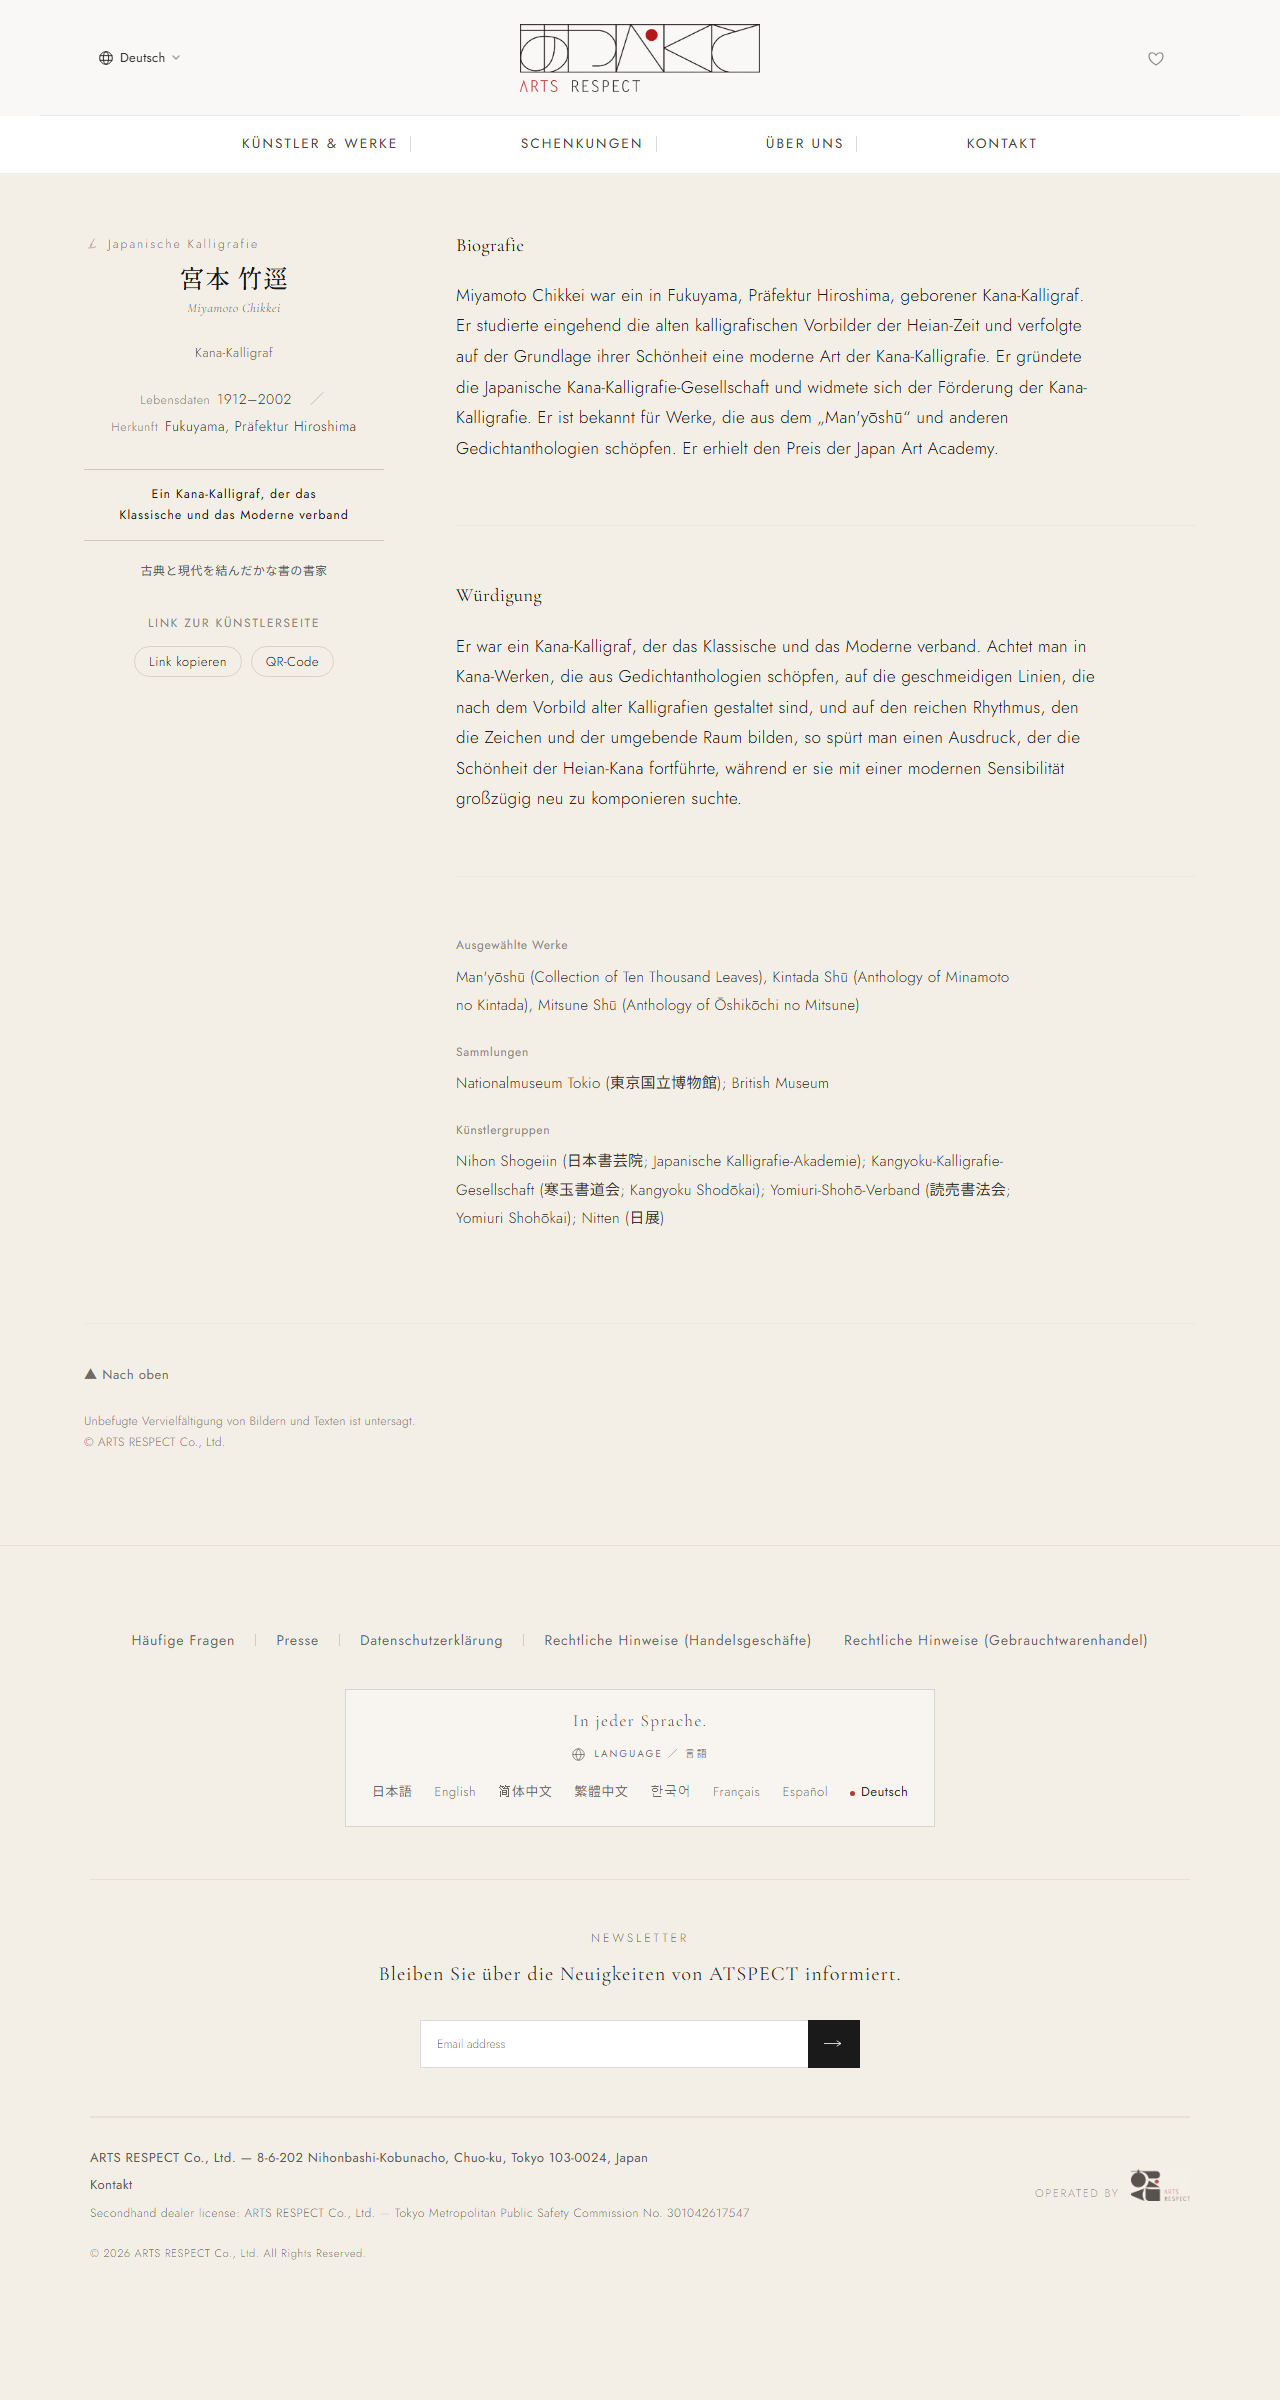
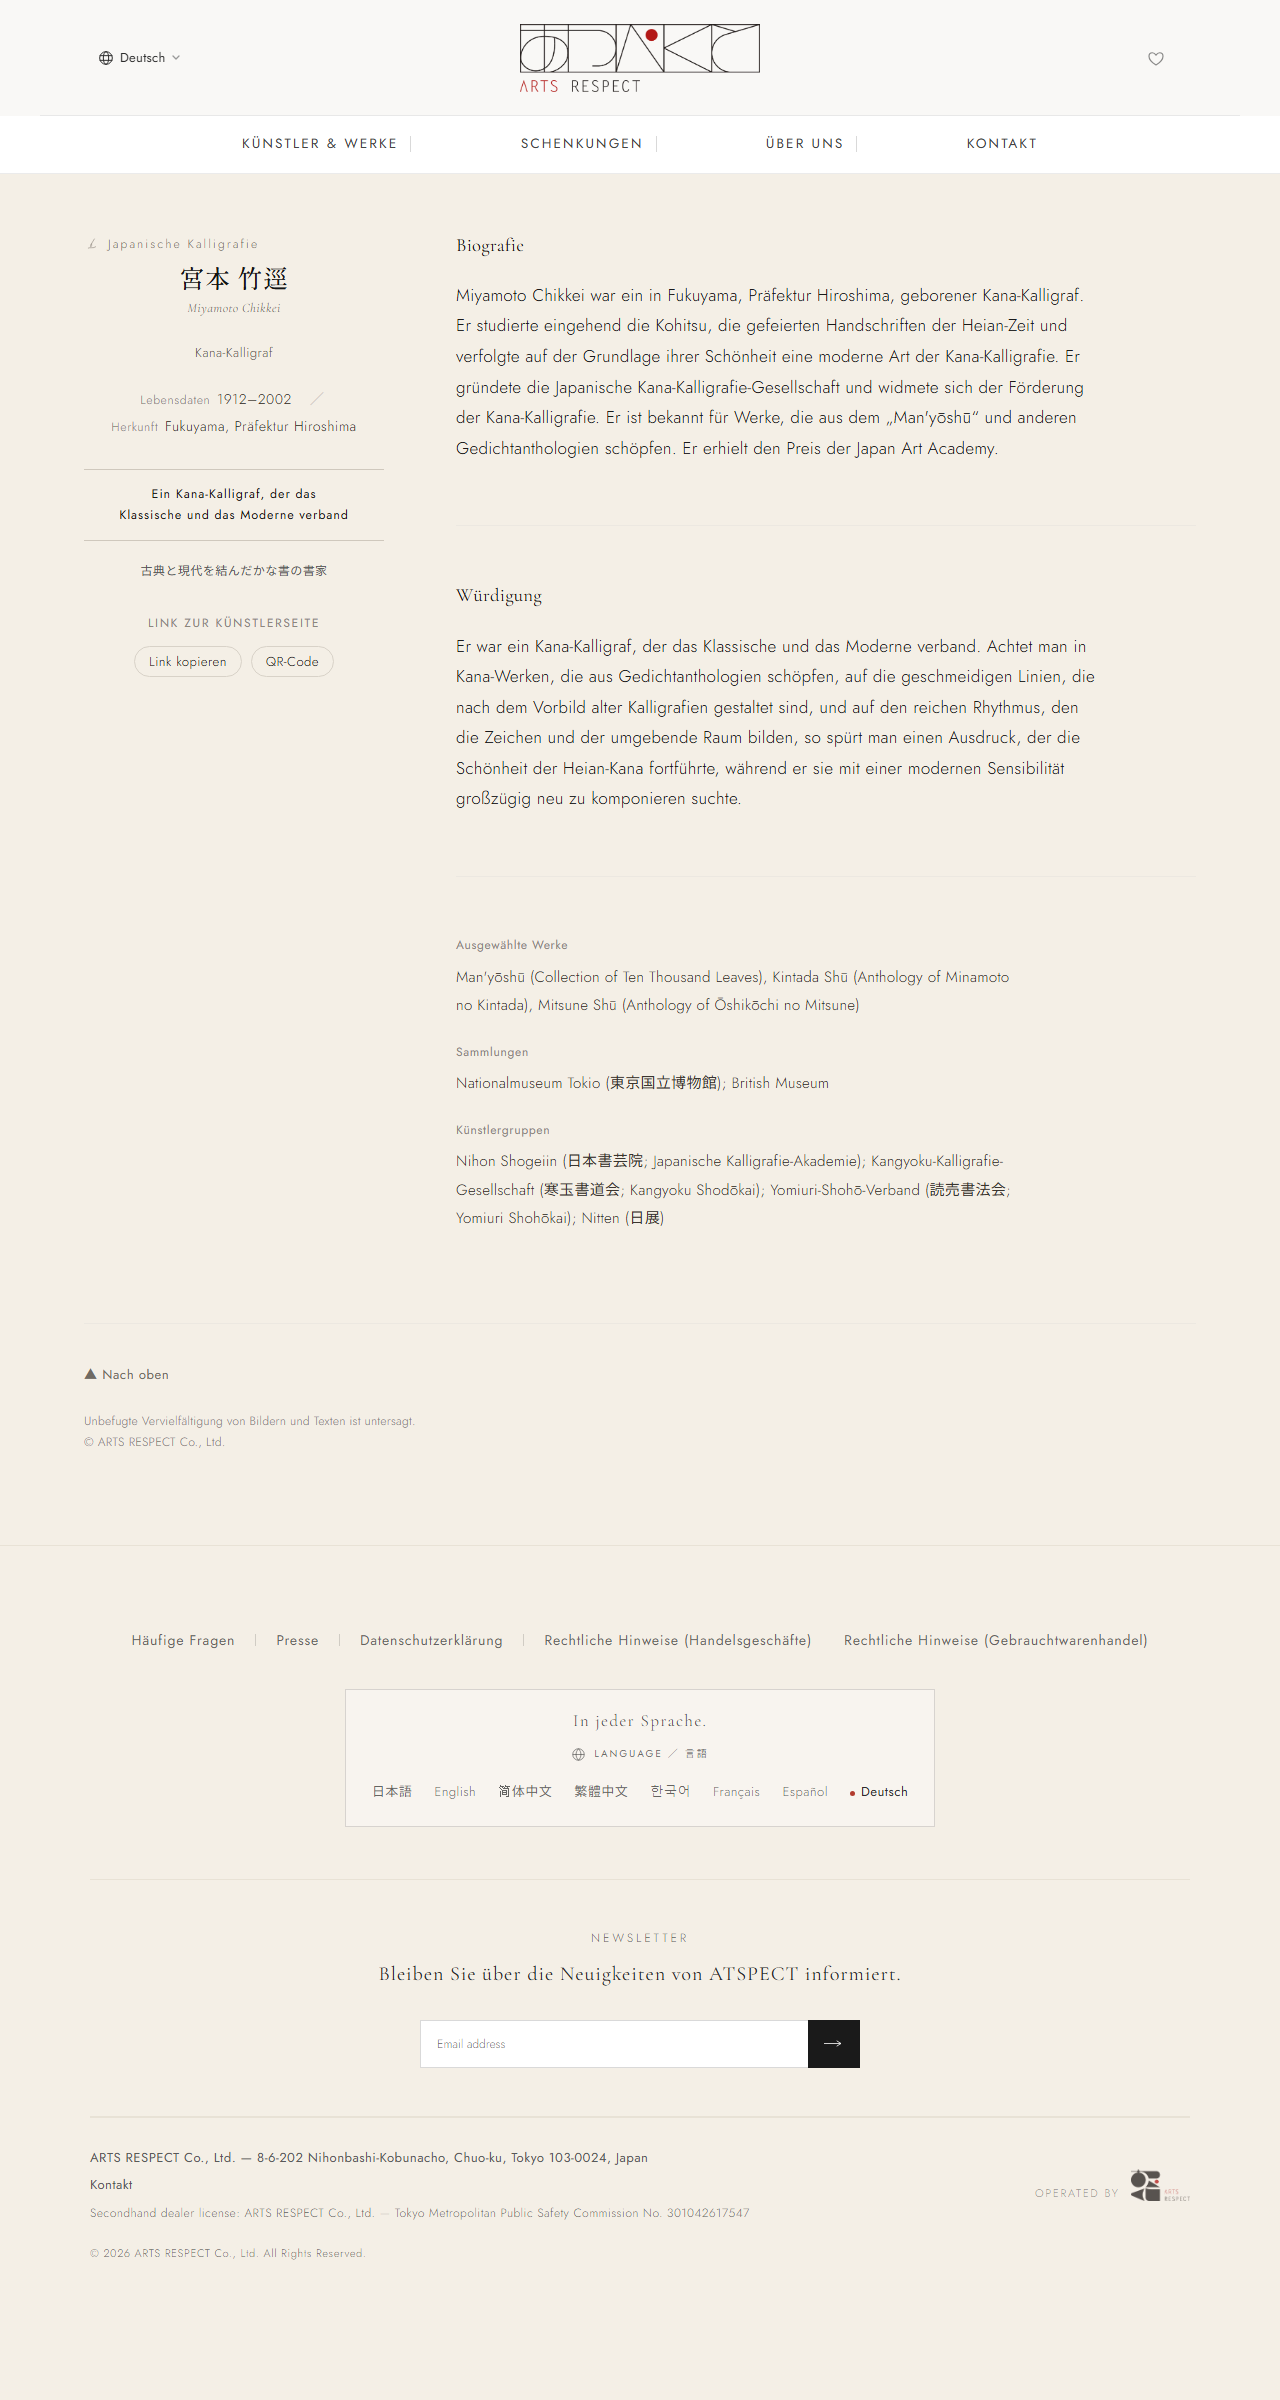
翻訳品質T 第26束 追補：前後件数表で残っていた古筆7欄・古名刀3欄を全数是正し0件に／横断型5件を辞書C26-C30へ登録
- ★古筆は横断型だった。既に正しい4名のhouse formに合わせて16欄を全数是正（少数側の一部だけ直して割れを作っていた）
- 突き合わせ②は同一文字列しか見ず、同じ型の別の言い回しを拾えていなかった
- 全数を直し切った5型を decisions D3 に登録
- スクショ＝宮本竹逕さまを撮り直し、高木聖鶴さまを追加（計24枚）

Changed region(s): [[0.3438, 0.125, 0.8438, 0.1875]]

diff --git a/reports/honyaku.md b/reports/honyaku.md
@@ -260,3 +260,97 @@ metaobject の実キーを数え直したところ、`masterworks` `publications
 ### バックアップ
 
 `C:\Vault\ARTS-RESPECT\_backups\_auto\artist-i18n\20260813-113243\`（41件12名）／`…\20260813-113623\`（1件1名）
+
+---
+
+## 第26束 追補（2026-08-13）完了条件の照合と、前後件数表で見つかった残り
+
+**先の報告は push 済みでしたが、完了条件を機械で照合したところ2件の欠けが見つかりました。塞いだうえで再度 push します。**
+
+### ★欠けていた2件
+
+1. **横断型5件を報告に書いただけで、裁定辞書に登録していなかった。** → `human` **C26〜C30** として登録（下表の件数つき）。登録しないと、次の束で同じ指摘が出るたびに同じ判断をやり直すことになる。
+2. **前後件数表を機械で出していなかった。** → 出したところ、**直したはずの2つの型が0件になっていなかった。**
+
+### ★前後件数表が見つけた残り（＝報告時点では「直し切った」と書けない状態だった）
+
+| 型 | 表を出した時点 | 原因 |
+|---|---|---|
+| 「古筆」を classical kana | **7欄/2名 残** | 突き合わせ②は**同一文字列**しか見ておらず、**同じ型の別の言い回し**（英 classical kana writing／西 kana clásica／仏 kana classique）を拾えていなかった |
+| 「古名刀」に master/maestros/maîtres | **3欄/1名 残** | 宮入行平さまだけを見て、**同じ日本語を持つ高橋貞次さま**を見ていなかった |
+
+**★さらに、古筆については当方の判断そのものが誤っていました。**
+古筆を日本語に持つのは全6名。**うち4名（杉岡華邨さま・日比野五鳳さま・安東聖空さま・尾上柴舟さま）は既に「kohitsu／celebrated brushwork／gefeierte Handschriften」で正しく訳されており**、
+宮本竹逕さま・高木聖鶴さまの2名だけが「classical kana（古典的なかな＝文字そのもの）」でした。
+**つまり古筆は横断型で、当方はその少数側の一部の欄だけを直し、同じ作家の中で言語ごとに割れた状態を一度作っていました。**
+既に正しい4名の house form に合わせて**16欄を全数是正**し、割れを解消しました。
+
+### 前後件数表（機械出力・「前」はライブに本日の置換の逆を当てて復元）
+
+**A. 第47便＝機関名（0になること）**
+
+| 型 | 前 | 後 |
+|---|---|---|
+| 仏 Institut d'architecture du Japon | 30欄/19名 | **0** |
+| 西 Instituto de Arquitectura de Japón | 31欄/19名 | **0** |
+| 独 Architekturinstitut(s) von Japan | 18欄/16名 | **0** |
+| 仏西独 Institut/Association japonais(e) des architectes 系 | 12欄/6名 | **0** |
+| 仏 Académie des arts du Japon | 37欄/31名 | **0** |
+| 独 Japanische(n) Kunstakademie（日本芸術院として） | 39欄/33名 | **0** |
+| 独 Präfektur Tokio（東京府立を除く） | 6欄/6名 | **0** |
+| 仏 préfecture de Tokyo | 3欄/3名 | **0** |
+| 西 prefectura de Tokio | 2欄/2名 | **0** |
+
+**A2. 置いた形（増えること）**
+
+| 形 | 前 | 後 |
+|---|---|---|
+| Architectural Institute of Japan | 20欄/13名 | 99欄/20名 |
+| Japan Institute of Architects | 2欄/2名 | 27欄/6名 |
+| Japan Art Academy | 4欄/2名 | 117欄/33名 |
+| Tokyo Metropolitan Government | 6欄/4名 | 13欄/5名 |
+
+**B. 第26束＝直した型（0になること）— 追補後にすべて0**
+
+| 型 | 前 | 後 |
+|---|---|---|
+| ko 名跡「十代/十一代/十二代」を漢数字読みのまま | 3欄/3名 | **0** |
+| 独西 「理事」を Direktor/director | 3欄/2名 | **0** |
+| 独 「戦時下」を Zweiten Weltkriegs | 3欄/3名 | **0** |
+| 英西仏独 「古筆」を classical kana | 7欄/2名 | **0** |
+| 中 日本刀を「鑄成/铸成」（鋳造） | 2欄/1名 | **0** |
+| ko 「깎아 갈라낸」（原文にない削り） | 2欄/1名 | **0** |
+| 西仏独 「不均等」の追加 | 3欄/1名 | **0** |
+| 英仏西 「古名刀」に master/maestros/maîtres | 6欄/2名 | **0** |
+| 西仏 原文にない最上級 | 2欄/1名 | **0** |
+
+**C. ★横断型として触らなかった型（前＝後 であることが「割っていない」証拠）**
+
+| 型 | 前 | 後 | |
+|---|---|---|---|
+| 「究めた」を 究極/究极 | 76欄/18名 | 76欄/18名 | 変化なし |
+| ko 「写実」を裸の 사실 | 47欄/34名 | 47欄/34名 | 変化なし |
+| 独 人間国宝を ernannt（任命） | 42欄/41名 | 42欄/41名 | 変化なし |
+| ko 「絵付け」を裸の 그림 | 1欄/1名 | 1欄/1名 | 変化なし |
+| ko 作品名《》を空白で区切る | 57欄/57名 | 57欄/57名 | 変化なし |
+
+### 辞書登録（BYTE-IDENTICAL照合済み）
+
+- `human` **C26**＝「究めた」の訳の割れ（72名）／**C27**＝ko「写実」を裸の사실（52名中45名）／**C28**＝独 ernannt（71名中44名）／**C29**＝ko「絵付け」（10名中9名）／**C30**＝ko《》の区切り（105名）。いずれも**未裁定・当方の判断で寄せない**として登録。
+- `decisions` **D3**＝小さな閉じた集合として**全数を直し切った5型**（古筆／古名刀／名跡／理事／戦時下）。以後この型の指摘は「是正済み」として扱う。
+- バックアップ＝`_backups\_auto\honyaku-ruling-dict\20260813-133538_b26-yokodan-C26-C30-D3.json`、**BYTE-IDENTICAL: OK**。
+
+### 完了条件の照合
+
+| 条件 | 状態 |
+|---|---|
+| 5型の裁定記録 | **済**（辞書 human C26〜C30・件数つき。報告本文にも記載） |
+| 前後件数表 | **済**（上記A/A2/B/C。機械出力） |
+| 残存0走査 | **済**（B表が全0。第47便のA表も全0） |
+| 読み戻し照合 | **済**（apply 5回＝48名／12名／1名／4名／3名。全件を別クエリで再取得して一致） |
+| 辞書登録 | **済**（D1に5名＋方針／D2 機関名／D3 全数是正5型／C25〜C30） |
+| スクショ | **済**（機関名12枚＋日課24枚＝36枚。宮本竹逕さまは追補後に撮り直し、高木聖鶴さまを追加） |
+
+### バックアップ（本日の apply 全5回）
+
+`20260813-104751`（機関名262件/48名）／`20260813-110334`（機関名 代表作欄7件/4名）／`20260813-113243`（第26束41件/12名）／`20260813-113623`（第26束追補1件/1名）／`20260813-133431`（第26束追補2＝16件/3名）
